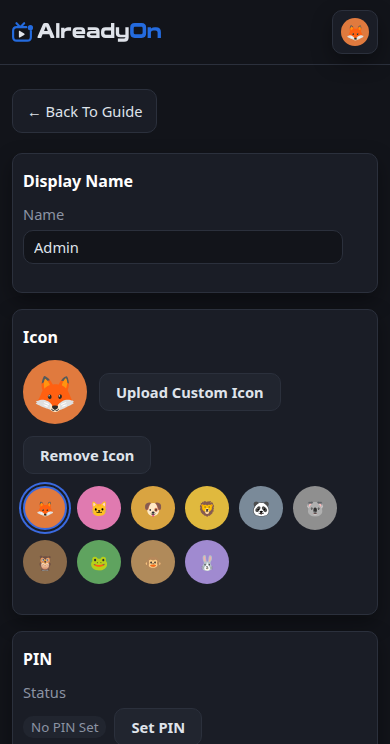
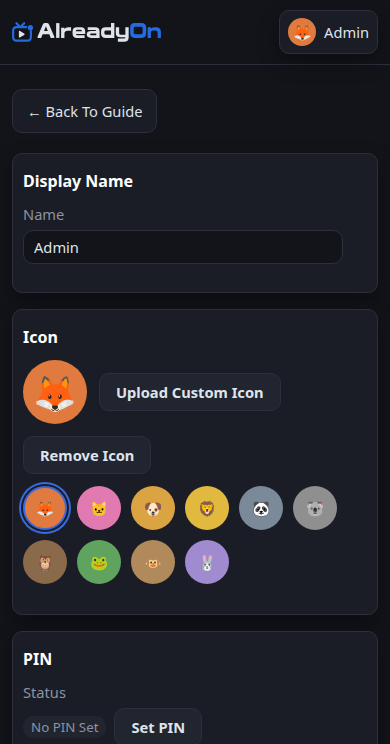
Keep named profile control on one line at compact widths

Changed region(s): [[0.7385, 0.0, 0.9538, 0.0618]]

diff --git a/web/src/pages/AdminPage.css b/web/src/pages/AdminPage.css
@@ -193,22 +193,32 @@
   }
 
   .admin-topbar-inner {
-    position: relative;
-    min-height: 44px;
-    padding-right: 56px;
+    /* Keep the named profile control on the brand row; navigation occupies
+       the following row rather than overlapping either header element. */
+    display: grid;
+    grid-template-columns: minmax(0, 1fr) auto;
+    gap: 12px;
   }
 
   .admin-topbar-inner > .profile-menu {
-    position: absolute;
-    top: 0;
-    right: 0;
+    grid-column: 2;
+    grid-row: 1;
+    max-width: min(180px, 45vw);
     margin-left: 0;
   }
 
-  /* Reserve one touch target beside the brand; the accessible name stays on
-     the button while the visible name belongs only in wider headers. */
+  .admin-topbar-inner > .brand-link {
+    min-width: 0;
+  }
+
+  .admin-topbar-inner .profile-menu-trigger {
+    width: 100%;
+    min-width: 0;
+    box-sizing: border-box;
+  }
+
   .admin-topbar-inner .profile-menu-trigger-name {
-    display: none;
+    min-width: 0;
   }
 
   .admin-content {

diff --git a/docs/review-screenshots/README.md b/docs/review-screenshots/README.md
@@ -1,6 +1,6 @@
 # Settings layout review
 
-These captures show the settings headers both with the profile menu closed (`*-closed.png`) and open. Mobile captures use a 390px viewport; the desktop Server Settings pair uses 1280px. Compact settings headers show the avatar alone, while wider headers retain the profile name beside it.
+These captures show the settings headers both with the profile menu closed (`*-closed.png`) and open. Mobile captures use a 390px viewport; the desktop Server Settings pair uses 1280px. Every settings header keeps the profile avatar and name together on one line; long names truncate rather than wrap.
 
 Accounts and Profiles keep their table text intact inside keyboard-accessible horizontal scroll regions. Scroll these regions to reach the remaining columns and actions. The page itself stays within the viewport.
 

diff --git a/docs/release-notes/2026-10-13-mobile-settings-profile-menu.md b/docs/release-notes/2026-10-13-mobile-settings-profile-menu.md
@@ -1,5 +1,5 @@
 ## Bug fixes
 
 - Keep settings screens aligned on narrow displays when opening the profile menu.
-- Show only the profile avatar in settings headers at 700px and below; wider headers retain the clickable name beside it.
+- Keep the profile avatar and clickable name together on one line at every width; long names truncate rather than wrap.
 - Keep Accounts and Profiles table text readable on phones with keyboard-accessible horizontal scrolling inside each table region, without widening the page.
